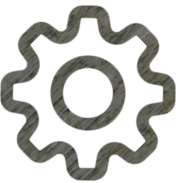
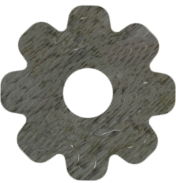
Added Settings Hover Image

Changed region(s): [[0.0284, 0.082, 0.9375, 0.929]]

diff --git a/src/gameplay.py b/src/gameplay.py
@@ -1,12 +1,15 @@
 import pygame
-from ui_controls.clickables import *
-from scenes.settings_scene import *
-from scenes.shop_scene import * 
+from ui_controls.clickables import Clickable
 from scenes.states import GameScenes
+from scenes.settings_scene import render_settings_scene
+from scenes.shop_scene import render_shop_scene 
 
-box = Clickable(10, 350, text = None, type_tag='box')
-settings_button = Clickable(770, 7, text = None, type_tag='settings')
 town_background_image = pygame.image.load(r"D:\Projects\Python-studies\shop_shop_manager\images\backgrounds\town_background_one.png")
+
+shop_button = Clickable(10, 350, text = None, type_tag='box')
+iventory_button = Clickable(63, 350, text = None, type_tag='box')
+home_button = Clickable(116, 350, text = None, type_tag='box')
+settings_button = Clickable(767, 5, text = None, type_tag='settings')
 
 def main_game(display_surface, mouse_event, update_scene=None):  
     if GameScenes.in_shop:
@@ -20,16 +23,18 @@ def main_game(display_surface, mouse_event, update_scene=None):
     else:
         display_surface.blit(town_background_image, (0, 0))
 
-        box.draw_image(display_surface)
+        shop_button.draw_image(display_surface)
+        iventory_button.draw_image(display_surface)
+        home_button.draw_image(display_surface)
         settings_button.draw_image(display_surface)
         
         # Switch to shop scene
-        if box.update_state(mouse_event, update_scene):
+        if shop_button.update_state(mouse_event, update_scene):
             GameScenes.in_shop, GameScenes.in_town = True, False  
           
         # Switch to settings scene
         elif settings_button.update_state(mouse_event, update_scene):
-            GameScenes.in_settings, GameScenes.in_town = True, False  
+            GameScenes.in_settings, GameScenes.in_town = True, False
 
-    # Update display to show the new frame
+
     pygame.display.flip()

diff --git a/src/main.py b/src/main.py
@@ -1,10 +1,12 @@
 import pygame
 from pyximport import install ; install() # Cython
 
-from initial_menu import *
-from gameplay import *
-from scenes.states import *
-from music import *
+import music
+from scenes.states import Globals
+from initial_menu import handle_game_start, render_initial_screen
+from gameplay import main_game
+
+
 
 pygame.init()
 pygame.mixer.init()
@@ -13,7 +15,7 @@ clock = pygame.time.Clock()
 running = True
 game_started = False
 
-start_music(mp3_files)
+music.start_music(music.mp3_files)
 
 while running:
     # Handle events
@@ -21,7 +23,7 @@ while running:
         if  event.type == pygame.QUIT:
             running = False # Close game        
    
-    check_current_music(mp3_files)
+    music.check_current_music(music.mp3_files)
     
     # Updates button state and draw the initial menu
     if not game_started:

diff --git a/src/ui_controls/clickables.py b/src/ui_controls/clickables.py
@@ -51,8 +51,10 @@ class Clickable:
             self.click_delay = 0.8 
 
         elif type_tag == 'settings':
+            self.has_hover = True
             self.default_image = pygame.image.load(r"D:\Projects\Python-studies\shop_shop_manager\images\clickables\settings_default.png")
-            
+            self.hover_image = pygame.image.load(r"D:\Projects\Python-studies\shop_shop_manager\images\clickables\settings_hover.png")
+
             self.click_sound = pygame.mixer.Sound(r"D:\Projects\Python-studies\shop_shop_manager\music\sound_effects\settings_click.mp3")
             self.click_delay = 1.5 
 

diff --git a/src/scenes/shop_scene.py b/src/scenes/shop_scene.py
@@ -1,7 +1,7 @@
 import pygame
-from ui_controls.clickables import *
-from scenes.market_board import render_table
+from ui_controls.clickables import Clickable
 from scenes.states import GameScenes
+from scenes.market_board import render_table
 
 exit_scene = Clickable(740, 330, text = None, type_tag='exit_scene')
 shop_background_image = pygame.image.load(r"D:\Projects\Python-studies\shop_shop_manager\images\backgrounds\shop_background.png")

diff --git a/src/scenes/settings_scene.py b/src/scenes/settings_scene.py
@@ -1,5 +1,5 @@
 import pygame
-from ui_controls.clickables import *
+from ui_controls.clickables import Clickable
 from scenes.states import GameScenes
 
 exit_scene = Clickable(740, 330, text = None, type_tag='exit_scene')

diff --git a/src/initial_menu.py b/src/initial_menu.py
@@ -1,5 +1,5 @@
 import pygame
-from ui_controls.clickables import *
+from ui_controls.clickables import Clickable
 from scenes.states import GameScenes
 
 # Initialize button

diff --git a/src/scenes/states.py b/src/scenes/states.py
@@ -6,4 +6,6 @@ class GameScenes:
     in_beginning = True
     in_town = False
     in_shop = False
+    in_inventory = False
+    in_home = False
     in_settings = False
